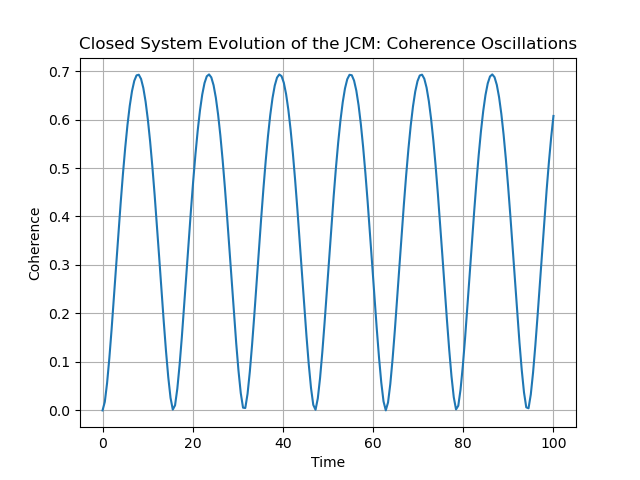
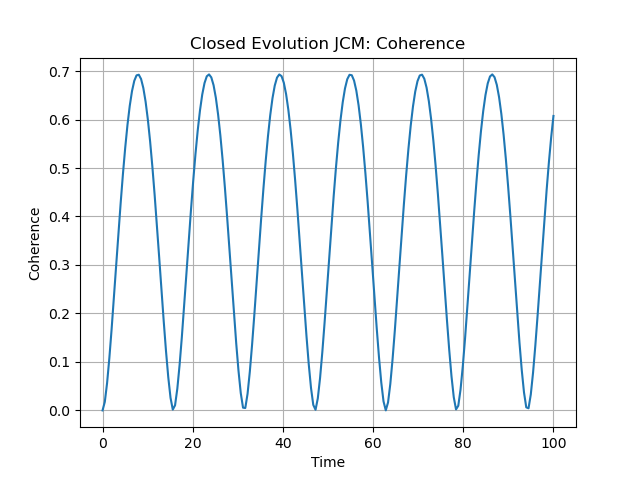
Improves graph titles and file names.

Changed region(s): [[0.125, 0.0625, 0.9062, 0.125]]

diff --git a/Research Project/Code/JCM_Open.py b/Research Project/Code/JCM_Open.py
@@ -1,22 +1,19 @@
 from TLSQHOSimulator import TLSQHOSimulator
 import qutip as q
 import numpy as np
-from scipy.constants import k as K_B, h
-
 
 ############################## SETUP ######################################
 
-tlist = np.linspace(0.0, 50.0, 2000)
+tlist = np.linspace(0.0, 1000.0, 200)
 
 # constants
-w = 1.0
-g = 0.1  # Weak coupling
-N = 2
+w = 1.0  # natural units, w = 1, hbar =1
+g = 0.05  # weak regime, g < gamma, gamma_th AND g << w (zeta = 0.01, C = 1)
+N = 30
 
 # Bases
 basis_atom_e = q.basis(2, 0)
 basis_qho_0 = q.basis(N, 0)
-
 
 # Operators
 a = q.tensor(q.qeye(2), q.destroy(N))
@@ -25,26 +22,21 @@ s_z = q.tensor(q.sigmaz(), q.qeye(N))
 s_lower = q.tensor(q.sigmam(), q.qeye(N))
 s_raise = s_lower.dag()
 
+# Hamiltonian
+H = 0.5 * w * s_z + w * (adag * a + 0.5) + g * (adag * s_lower + a * s_raise)
 
+# Init cond
 psi0 = q.tensor(basis_atom_e, basis_qho_0)
-
-# Jaynes-Cummings Hamiltonian
-H = (
-    0.5 * w * s_z
-    + w * (adag * a + 0.5)
-    + g * q.tensor(-1 * q.sigmaz(), q.destroy(N).dag() + q.destroy(N))
-)
 
 ########################## OPEN SIM SETUP #################################
 
 # Constants
-gamma = 0.01
-gamma_th = 0.01
-T_K = 1  # avg T in Kelvin
-T = (K_B * T_K) / (
-    h * 1e9
-)  # T in natural units, using (K_b/ h * freq) as a conversion factor
-n_omega = 1 / (np.exp(w / T) - 1)
+gamma = 0.1
+gamma_th = 0.1
+kbT = 0.001  # meV
+n_omega = 1 / (
+    np.exp(w / kbT) - 1
+)  # low temp regime so n_omega -> 0, optical/IR regime
 
 # Operators
 e_ops = [adag * a, s_raise * s_lower]
@@ -69,53 +61,57 @@ results_open_qho = sim_open_qho.evolve()
 expect_open_qho = sim_open_qho.expect(results_open_qho)
 neg_qho = sim_open_qho.negativity(results_open_qho)
 
-# TLS + QHO
-L_tlsqho = L_tls + L_qho
+# QHO + TLS
+L_tlsqho = L_qho + L_tls
 sim_open_tlsqho = TLSQHOSimulator(H, psi0, L_tlsqho, e_ops, times=tlist)
 results_open_tlsqho = sim_open_tlsqho.evolve()
 expect_open_tlsqho = sim_open_tlsqho.expect(results_open_tlsqho)
 
+
 ############################### PLOTS #####################################
+
 sim_open_tls.plot(
     expect_open_tls,
-    "Open System Evolution: sigma_z Interaction Dynamics of Spontaneous Atomic Emission",
+    "Open Evolution JCM: Spontaneous Atomic Emission (Weak Coupling)",
     "Expectation Values",
     "OQS_TLS_Decay",
-    "SigZ",
+    "JCM",
     ["cavity photon number", "atom excitation probability"],
 )
 
 sim_open_tls.plot(
     neg_tls,
-    "Open System Negativity: sigma_z Interaction Dynamics of Spontaneous Atomic Emission",
+    "Open Evolution JCM: Negativity of Atomic Emission (Weak Coupling)",
     "Negativity",
     "OQS_TLS_Neg",
-    "SigZ",
+    "JCM",
     ["Negativity"],
 )
 
 sim_open_qho.plot(
     expect_open_qho,
-    "Open System Evolution: sigma_z Interaction Dynamics of QHO Photon Loss",
+    "Open Evolution JCM: QHO Photon Loss/Gain (Weak Coupling)",
     "Expectation Values",
     "OQS_QHO_loss",
-    "SigZ",
+    "JCM",
     ["cavity photon number", "atom excitation probability"],
 )
 
-sim_open_tls.plot(
+sim_open_qho.plot(
     neg_qho,
-    "Open System Negativity: sigma_z Interaction Dynamics of QHO Photon Loss",
+    "Open Evolution JCM: Negativity of QHO Photon Loss/Gain (Weak Coupling)",
     "Negativity",
     "OQS_QHO_Neg",
-    "SigZ",
+    "JCM",
     ["Negativity"],
 )
+
+
 sim_open_tlsqho.plot(
     expect_open_tlsqho,
-    "Open System Evolution: sigma_z Interaction Dynamics of TLS, QHO Decay",
+    "Open Evolution JCM: TLS and QHO Decay",
     "Expectation Values",
     "OQS_QHOTLS",
-    "SigZ",
+    "JCM",
     ["cavity photon number", "atom excitation probability"],
 )

diff --git a/Research Project/Code/SigZ_Open.py b/Research Project/Code/SigZ_Open.py
@@ -1,19 +1,22 @@
 from TLSQHOSimulator import TLSQHOSimulator
 import qutip as q
 import numpy as np
+from scipy.constants import k as K_B, h
+
 
 ############################## SETUP ######################################
 
-tlist = np.linspace(0.0, 1000.0, 200)
+tlist = np.linspace(0.0, 50.0, 2000)
 
 # constants
-w = 1.0  # natural units, w = 1, hbar =1
-g = 0.05 # weak regime, g < gamma, gamma_th AND g << w (zeta = 0.01, C = 1)
+w = 1.0
+g = 0.05  # weak regime, g < gamma, gamma_th AND g << w (zeta = 0.01, C = 1)
 N = 30
 
 # Bases
 basis_atom_e = q.basis(2, 0)
 basis_qho_0 = q.basis(N, 0)
+
 
 # Operators
 a = q.tensor(q.qeye(2), q.destroy(N))
@@ -22,19 +25,23 @@ s_z = q.tensor(q.sigmaz(), q.qeye(N))
 s_lower = q.tensor(q.sigmam(), q.qeye(N))
 s_raise = s_lower.dag()
 
-# Hamiltonian
-H = 0.5 * w * s_z + w * (adag * a + 0.5) + g * (adag * s_lower + a * s_raise)
 
-# Init cond
 psi0 = q.tensor(basis_atom_e, basis_qho_0)
+
+# Jaynes-Cummings Hamiltonian
+H = (
+    0.5 * w * s_z
+    + w * (adag * a + 0.5)
+    + g * q.tensor(-1 * q.sigmaz(), q.destroy(N).dag() + q.destroy(N))
+)
 
 ########################## OPEN SIM SETUP #################################
 
 # Constants
 gamma = 0.1
 gamma_th = 0.1
-kbT = 0.001 # meV
-n_omega = 1 / (np.exp(w / kbT) - 1) # low temp regime so n_omega -> 0, optical/IR regime 
+kbT = 0.001
+n_omega = 1 / (np.exp(w / kbT) - 1)
 
 # Operators
 e_ops = [adag * a, s_raise * s_lower]
@@ -59,57 +66,53 @@ results_open_qho = sim_open_qho.evolve()
 expect_open_qho = sim_open_qho.expect(results_open_qho)
 neg_qho = sim_open_qho.negativity(results_open_qho)
 
-# QHO + TLS
-L_tlsqho = L_qho + L_tls
+# TLS + QHO
+L_tlsqho = L_tls + L_qho
 sim_open_tlsqho = TLSQHOSimulator(H, psi0, L_tlsqho, e_ops, times=tlist)
 results_open_tlsqho = sim_open_tlsqho.evolve()
 expect_open_tlsqho = sim_open_tlsqho.expect(results_open_tlsqho)
 
-
 ############################### PLOTS #####################################
-
 sim_open_tls.plot(
     expect_open_tls,
-    "Open System Evolution of the JCM: Dynamics of Spontaneous Atomic Emission",
+    "Open Evolution SigmaZ: Spontaneous Atomic Emission (Weak Coupling)",
     "Expectation Values",
     "OQS_TLS_Decay",
-    "JCM",
+    "SigZ",
     ["cavity photon number", "atom excitation probability"],
 )
 
 sim_open_tls.plot(
     neg_tls,
-    "Open System Evolution of the JCM: Negativity with Spontaneous Atomic Emission",
+    "Open Evolution SigmaZ: Negativity of Atomic Emission (Weak Coupling)",
     "Negativity",
     "OQS_TLS_Neg",
-    "JCM",
+    "SigZ",
     ["Negativity"],
 )
 
 sim_open_qho.plot(
     expect_open_qho,
-    "Open System Evolution of the JCM: Dynamics of QHO Photon Loss",
+    "Open Evolution SigmaZ: QHO Photon Loss/Gain (Weak Coupling)",
     "Expectation Values",
     "OQS_QHO_loss",
-    "JCM",
+    "SigZ",
     ["cavity photon number", "atom excitation probability"],
 )
 
-sim_open_qho.plot(
+sim_open_tls.plot(
     neg_qho,
-    "Open System Evolution of the JCM: Negativity with QHO Photon Loss",
+    "Open Evolution SigmaZ: Negativity of QHO Photon Loss (Weak Coupling)",
     "Negativity",
     "OQS_QHO_Neg",
-    "JCM",
+    "SigZ",
     ["Negativity"],
 )
-
-
 sim_open_tlsqho.plot(
     expect_open_tlsqho,
-    "Open System Evolution of the JCM: Dynamics of TLS, QHO Decay",
+    "Open Evolution SigmaZ: TLS and QHO Decay (Weak Coupling)",
     "Expectation Values",
     "OQS_QHOTLS",
-    "JCM",
+    "SigZ",
     ["cavity photon number", "atom excitation probability"],
 )

diff --git a/Research Project/Code/JCM_Closed.py b/Research Project/Code/JCM_Closed.py
@@ -2,13 +2,14 @@ from TLSQHOSimulator import TLSQHOSimulator
 import qutip as q
 import numpy as np
 
+
 ############################## SETUP ######################################
 
 tlist = np.linspace(0.0, 100.0, 200)
 
 # constants
-w = 1.0
-g = 0.1  # Weak coupling
+w = 1.0  # natural units, w = 1, hbar =1, kb = 1, GHz freq
+g = 0.1
 N = 2
 
 # Bases
@@ -24,15 +25,11 @@ s_lower = q.tensor(q.sigmam(), q.qeye(N))
 s_raise = s_lower.dag()
 
 
-#  Hamiltonian with SigmaZ Interaction
-H = (
-    0.5 * w * s_z
-    + w * (adag * a + 0.5)
-    + g * q.tensor(-1 * q.sigmaz(), q.destroy(N).dag() + q.destroy(N))
-)
-
-# Init cond
 psi0 = q.tensor(basis_atom_e, basis_qho_0)
+
+# Jaynes-Cummings Hamiltonian
+H = 0.5 * w * s_z + w * (adag * a + 0.5) + g * (adag * s_lower + a * s_raise)
+
 
 ############################ SIMULATION ###################################
 
@@ -46,17 +43,15 @@ coherence_closed = sim_closed.rel_coherence(results_closed)
 
 sim_closed.plot(
     vne_closed,
-    "Closed System Evolution: sigma_z Interaction Entanglement Oscillations",
+    "Closed Evolution JCM: Entanglement",
     "Entanglement",
     "CQS_ent",
-    "SigZ",
-    legend=None,
+    "JCM",
 )
 sim_closed.plot(
     coherence_closed,
-    "Closed System Evolution: sigma_z Interaction Coherence Oscillations",
+    "Closed Evolution JCM: Coherence",
     "Coherence",
     "CQS_coh",
-    "SigZ",
-    legend=None,
+    "JCM",
 )

diff --git a/Research Project/Code/SigZ_Closed.py b/Research Project/Code/SigZ_Closed.py
@@ -2,14 +2,13 @@ from TLSQHOSimulator import TLSQHOSimulator
 import qutip as q
 import numpy as np
 
-
 ############################## SETUP ######################################
 
 tlist = np.linspace(0.0, 100.0, 200)
 
 # constants
-w = 1.0  # natural units, w = 1, hbar =1, kb = 1, GHz freq
-g = 0.1
+w = 1.0
+g = 0.1  # Weak coupling
 N = 2
 
 # Bases
@@ -25,11 +24,15 @@ s_lower = q.tensor(q.sigmam(), q.qeye(N))
 s_raise = s_lower.dag()
 
 
+#  Hamiltonian with SigmaZ Interaction
+H = (
+    0.5 * w * s_z
+    + w * (adag * a + 0.5)
+    + g * q.tensor(-1 * q.sigmaz(), q.destroy(N).dag() + q.destroy(N))
+)
+
+# Init cond
 psi0 = q.tensor(basis_atom_e, basis_qho_0)
-
-# Jaynes-Cummings Hamiltonian
-H = 0.5 * w * s_z + w * (adag * a + 0.5) + g * (adag * s_lower + a * s_raise)
-
 
 ############################ SIMULATION ###################################
 
@@ -43,15 +46,17 @@ coherence_closed = sim_closed.rel_coherence(results_closed)
 
 sim_closed.plot(
     vne_closed,
-    "Closed System Evolution of the JCM: Entanglement Oscillations",
+    "Closed Evolution SigmaZ: Interaction Entanglement",
     "Entanglement",
     "CQS_ent",
-    "JCM",
+    "SigZ",
+    legend=None,
 )
 sim_closed.plot(
     coherence_closed,
-    "Closed System Evolution of the JCM: Coherence Oscillations",
+    "Closed Evolution SigmaZ: Coherence",
     "Coherence",
     "CQS_coh",
-    "JCM",
+    "SigZ",
+    legend=None,
 )
